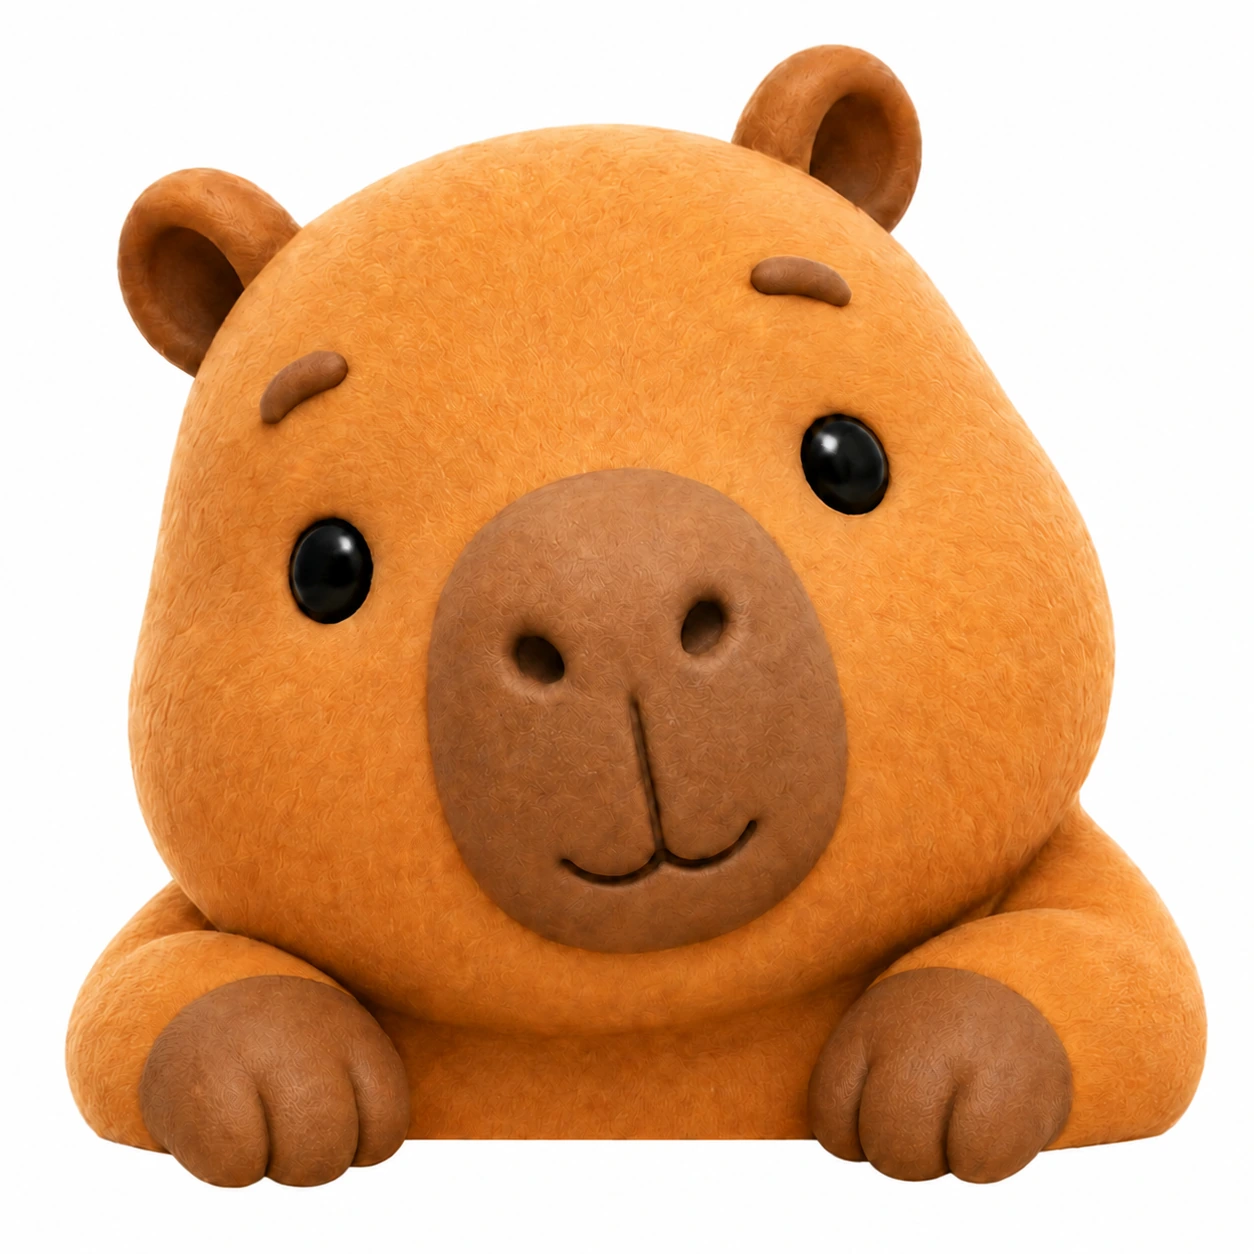
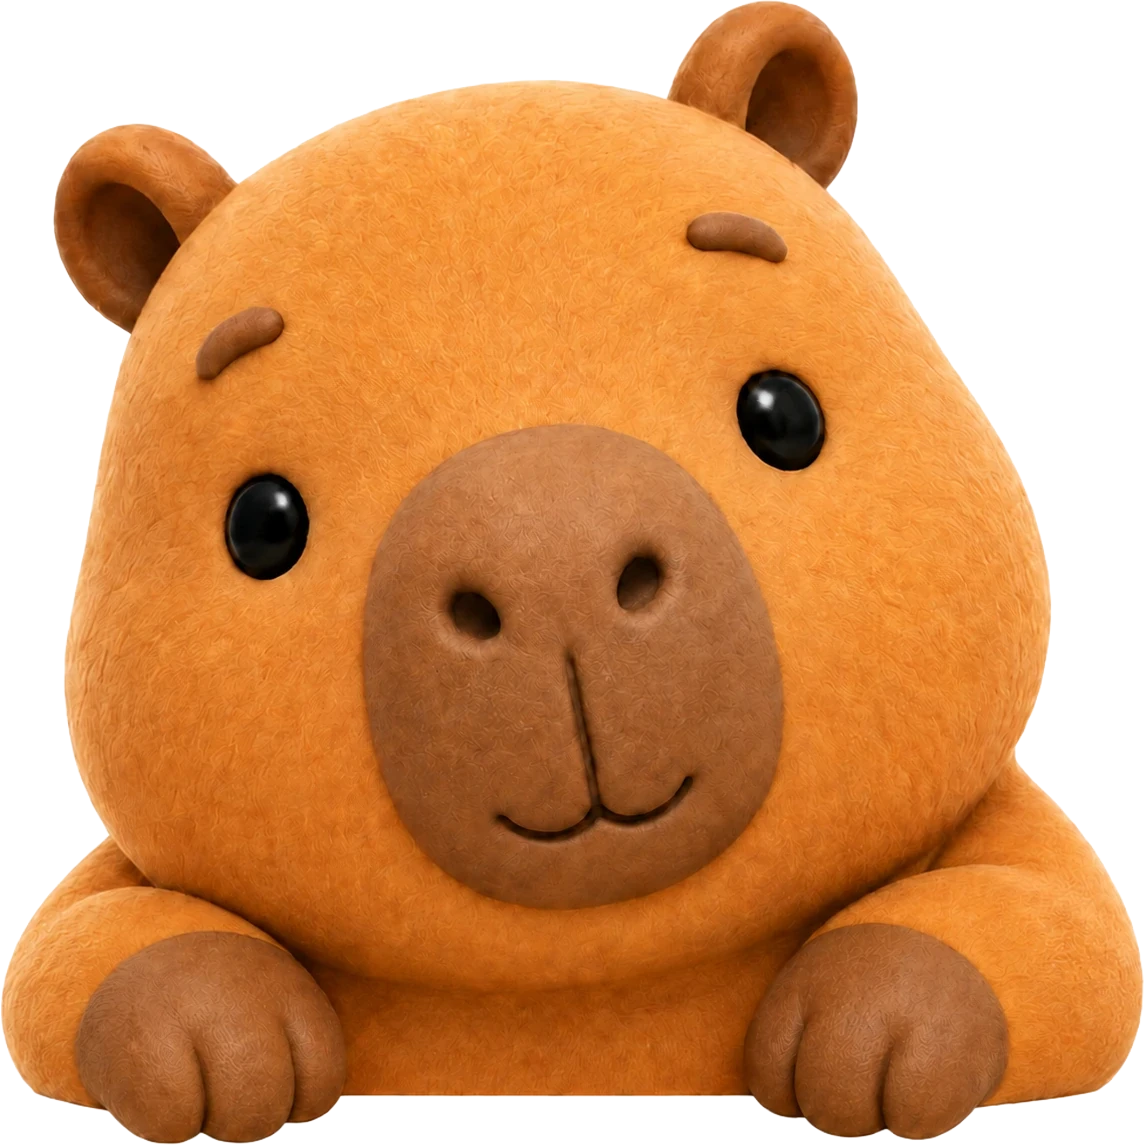
Refresh mascot styling and add site tests
Update the website mascot treatment by replacing the peek image, removing blend/mask effects, and slightly adjusting footer spacing for cleaner rendering. Add regression coverage for the example statistics dataset and a cross-browser playback test to ensure the product demo auto-plays, pauses offscreen, and delays the YouTube embed until the Continue step.

diff --git a/apps/website/tests/build/story-playback.test.ts b/apps/website/tests/build/story-playback.test.ts
@@ -1,0 +1,54 @@
+import { fileURLToPath } from 'node:url';
+import { expect, test } from '@playwright/test';
+import { DemoChapter } from '../../src/components/product-demo/types';
+
+const WebsiteOutput = new URL( '../../dist/', import.meta.url );
+
+for ( const engine of [ 'chromium', 'firefox', 'webkit' ] as const ) {
+	const engineTest = test.extend( { browserName: engine } );
+	engineTest( `${ engine }: walkthrough plays on entry, pauses offscreen, and never opens YouTube before Continue`, async ( { page } ) => {
+		await page.route( '**/*', async ( route ) => {
+			const url = new URL( route.request().url() );
+			if ( url.origin !== 'http://website.test' ) {
+				await route.abort();
+				return;
+			}
+			const path = url.pathname.endsWith( '/' ) ? `${ url.pathname }index.html` : url.pathname;
+			await route.fulfill( { path: fileURLToPath( new URL( `.${ path }`, WebsiteOutput ) ) } );
+		} );
+		await page.emulateMedia( { reducedMotion: 'no-preference' } );
+		await page.goto( 'http://website.test/' );
+		const story = page.locator( '.how-it-works' );
+		await expect( story.getByRole( 'button', { name: 'Play walkthrough', exact: true } ) ).toBeVisible();
+		await page.clock.install();
+		await page.locator( '.product-demo-browser' ).scrollIntoViewIfNeeded();
+		await expect( story ).toHaveAttribute( 'data-playing', 'true' );
+		await page.clock.runFor( 4_200 );
+		await expect( page.locator( '.product-demo' ) ).toHaveAttribute( 'data-scene', DemoChapter.VISIT );
+		await expect( page.locator( '.product-demo-youtube:visible' ) ).toHaveCount( 0 );
+		await expect( page.locator( '.product-demo-address' ) ).toContainText( 'you' );
+		await page.clock.runFor( 3_000 );
+		await expect( page.locator( '.product-demo' ) ).toHaveAttribute( 'data-scene', DemoChapter.PAUSE );
+		await story.getByRole( 'button', { name: 'Pause walkthrough', exact: true } ).click();
+		const countdown = await page.locator( '.product-demo-countdown:visible' ).textContent();
+		await page.clock.runFor( 2_000 );
+		await expect( page.locator( '.product-demo-countdown:visible' ) ).toHaveText( countdown ?? '' );
+		await story.getByRole( 'button', { name: 'Play walkthrough', exact: true } ).click();
+		await page.evaluate( () => window.scrollTo( 0, document.body.scrollHeight ) );
+		await expect( story ).toHaveAttribute( 'data-playing', 'false' );
+		await page.clock.runFor( 20_000 );
+		await page.locator( '.product-demo-browser' ).scrollIntoViewIfNeeded();
+		await expect( story ).toHaveAttribute( 'data-playing', 'true' );
+		await page.clock.runFor( 9_800 );
+		await expect( page.locator( '.product-demo' ) ).toHaveAttribute( 'data-scene', DemoChapter.CONTINUE );
+		await expect( page.locator( '.product-demo-youtube:visible' ) ).toHaveCount( 0 );
+		await page.clock.runFor( 3_000 );
+		await expect( page.locator( '.product-demo' ) ).toHaveAttribute( 'data-scene', DemoChapter.BROWSE );
+		await expect( page.locator( '.product-demo-youtube:visible' ) ).toBeVisible();
+		await page.clock.runFor( 6_000 );
+		await expect( story ).toHaveAttribute( 'data-playing', 'false' );
+		await story.getByRole( 'button', { name: 'Replay walkthrough', exact: true } ).click();
+		await expect( page.locator( '.product-demo' ) ).toHaveAttribute( 'data-scene', DemoChapter.CHOOSE );
+		expect( await page.locator( '.experience-stage' ).evaluate( ( element ) => getComputedStyle( element ).position ) ).toBe( 'static' );
+	} );
+}

diff --git a/apps/website/src/components/statistics-preview/data.test.ts b/apps/website/src/components/statistics-preview/data.test.ts
@@ -1,0 +1,19 @@
+import { describe, expect, it } from 'vitest';
+import { ExampleStatistics } from './data';
+
+describe( 'website statistics example', () => {
+	it( 'provides two complete months for the all-time chart', () => {
+		expect( ExampleStatistics.dailyTotals ).toHaveLength( 61 );
+		expect( ExampleStatistics.dailyTotals[ 0 ]?.date ).toBe( '2026-08-01' );
+		expect( ExampleStatistics.dailyTotals.at( -1 )?.date ).toBe( '2026-09-30' );
+		expect( new Set( ExampleStatistics.dailyTotals.map( ( day ) => day.date ) ).size ).toBe( 61 );
+	} );
+	it( 'keeps every summary consistent with its daily records', () => {
+		for ( const metric of [ 'estimatedReclaimedMilliseconds', 'focusedPauseMilliseconds',
+			'reconsideredVisitCount', 'completedWaitCount', 'allowanceGrantedCount' ] as const ) {
+			expect( ExampleStatistics[ metric ] ).toBe(
+				ExampleStatistics.dailyTotals.reduce( ( total, day ) => total + day[ metric ], 0 ),
+			);
+		}
+	} );
+} );

diff --git a/apps/website/src/styles/global.scss b/apps/website/src/styles/global.scss
@@ -122,7 +122,6 @@ body { margin: 0; }
 		z-index: 2;
 		width: min(28rem, 38%);
 		margin: 0.75rem auto -1.25rem;
-		mix-blend-mode: multiply;
 		pointer-events: none;
 	}
 
@@ -305,9 +304,8 @@ body { margin: 0; }
 
 	.footer-mascot {
 		width: min(24rem, 60%);
-		margin: 0 auto -1.25rem;
+		margin: 0 auto -1.00rem;
 		z-index: 1;
-		mix-blend-mode: multiply;
 		pointer-events: none;
 	}
 

diff --git a/apps/website/src/components/mascot/style.scss b/apps/website/src/components/mascot/style.scss
@@ -1,11 +1,5 @@
 .mascot {
 	position: relative;
-	mix-blend-mode: multiply;
-
-	// Feather the generated image's off-white outer margin into the page paper.
-	mask-image: linear-gradient(to right, transparent, #000 3%, #000 97%, transparent),
-		linear-gradient(to bottom, transparent, #000 3%, #000 97%, transparent);
-	mask-composite: intersect;
 
 	img {
 		display: block;
